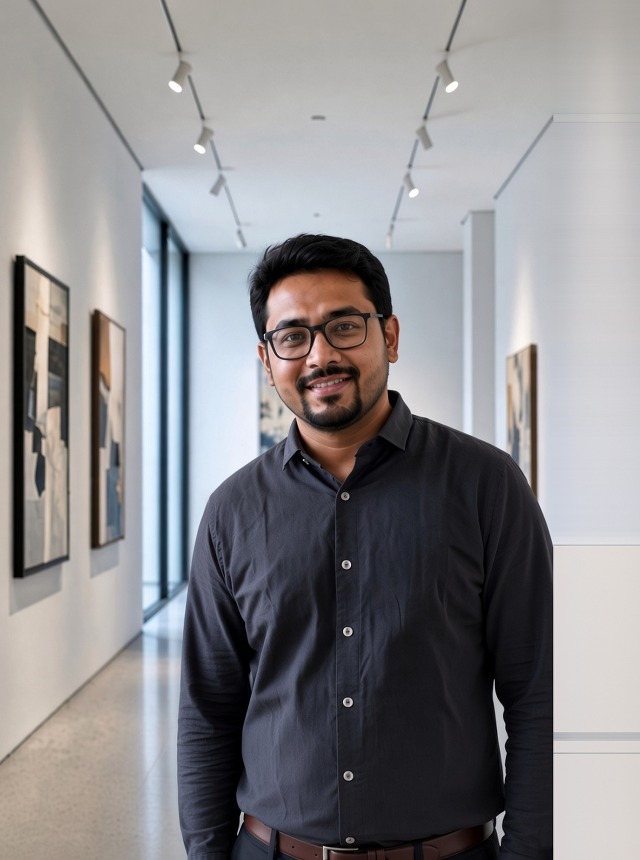
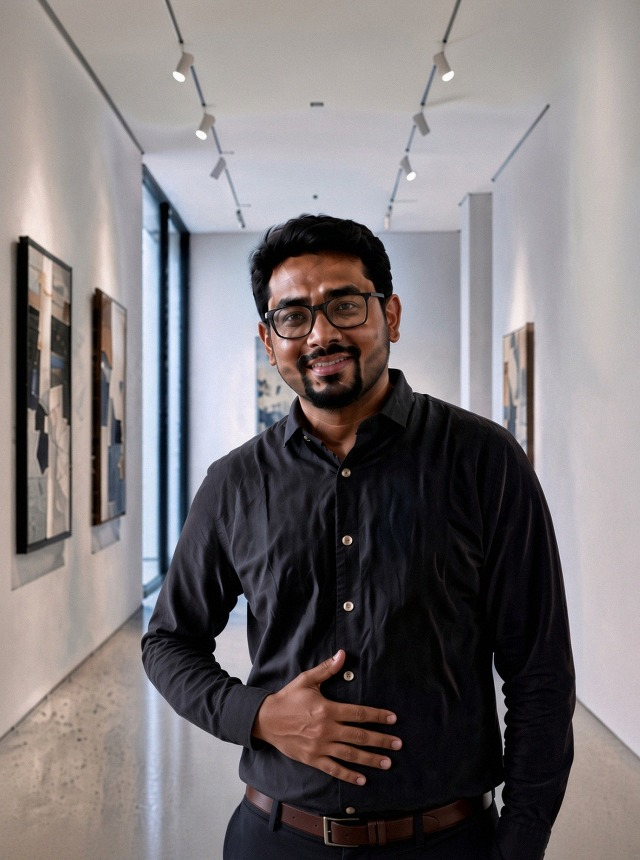
fix(rohan): desk139 complete midriff hand DP (?v=13)
Keep waist-up zoom and face center from desk138; pose the right hand
fully on the midriff so fingers/wrist are not chopped by the frame.
Bump cache to desk139 / Rohan ?v=13 for site + Flutter assets.

diff --git a/js/app.js b/js/app.js
@@ -813,7 +813,7 @@ const MENTORS = [
   { name: "Vikram Singh", role: "Price action coach", tag: "Swing trading", img: "https://images.unsplash.com/photo-1506794778202-cad84cf45f1d?auto=format&fit=crop&w=640&h=860&q=80" },
   { name: "Ananya Rao", role: "Long-term investor", tag: "Portfolio", img: "https://images.unsplash.com/photo-1573496359142-b8d87734a5a2?auto=format&fit=crop&w=640&h=860&q=80" },
   { name: "Kabir Joshi", role: "Index options", tag: "Bank Nifty", img: "/img/instructors/kabir-joshi.jpg?v=9" },
-  { name: "Rohan Desai", role: "Fund researcher", tag: "Mutual funds", img: "/img/instructors/rohan-desai.jpg?v=12" },
+  { name: "Rohan Desai", role: "Fund researcher", tag: "Mutual funds", img: "/img/instructors/rohan-desai.jpg?v=13" },
   { name: "Priya Nair", role: "Asset allocation", tag: "SIP lab", img: "https://images.unsplash.com/photo-1580489944761-15a19d654956?auto=format&fit=crop&w=640&h=860&q=80" },
   { name: "Meera Iyer", role: "Options coach", tag: "Defined risk", img: "https://images.unsplash.com/photo-1438761681033-6461ffad8d80?auto=format&fit=crop&w=640&h=860&q=80" }
 ];
@@ -4924,6 +4924,7 @@ function traderIcon(kind) {
 /* cache-bust desk136: Rohan Desai DP widen framing (crop-only from desk133 flutter) /img/instructors/rohan-desai.jpg?v=9 */
 /* cache-bust desk138: Rohan Desai DP zoom-out extend gallery half-body /img/instructors/rohan-desai.jpg?v=11 */
 /* cache-bust desk138b: center face for circle (same zoom, right gallery extend) /img/instructors/rohan-desai.jpg?v=12 */
+/* cache-bust desk139: complete right hand on midriff (same zoom/center) /img/instructors/rohan-desai.jpg?v=13 */
 function traderCardHTML(m, i, opts = {}) {
   const title = String(m.role || m.tag || "Mentor").trim();
   const cloneAttrs = opts.clone ? ' tabindex="-1" aria-hidden="true"' : "";

diff --git a/account.html b/account.html
@@ -17,7 +17,7 @@
   <div id="site-header"></div>
   <main id="accountRoot" class="ld-page"></main>
   <div id="site-footer"></div>
-  <script src="/js/app.js?v=desk138" defer></script>
+  <script src="/js/app.js?v=desk139" defer></script>
   <script src="/js/lms.js?v=cert2" defer></script>
 </body>
 </html>

diff --git a/learning.html b/learning.html
@@ -17,7 +17,7 @@
   <div id="site-header"></div>
   <main id="myLearning" class="ld-page"></main>
   <div id="site-footer"></div>
-  <script src="/js/app.js?v=desk138" defer></script>
+  <script src="/js/app.js?v=desk139" defer></script>
   <script src="/js/lms.js?v=cert2" defer></script>
 </body>
 </html>

diff --git a/course.html b/course.html
@@ -22,7 +22,7 @@
     </div>
   </main>
   <div id="site-footer"></div>
-  <script src="/js/app.js?v=desk138" defer></script>
+  <script src="/js/app.js?v=desk139" defer></script>
   <script src="/js/lms.js?v=cert2" defer></script>
   <script src="/js/drm.js?v=desk29" defer></script>
 </body>

diff --git a/contact.html b/contact.html
@@ -48,7 +48,7 @@
   </main>
   <div id="site-footer"></div>
   <script src="/js/help-faqs.js?v=faq1" defer></script>
-  <script src="/js/app.js?v=desk138" defer></script>
+  <script src="/js/app.js?v=desk139" defer></script>
   <script src="/js/lms.js" defer></script>
 </body>
 </html>

diff --git a/certificate.html b/certificate.html
@@ -19,7 +19,7 @@
     <div id="certRoot"></div>
   </main>
   <div id="site-footer"></div>
-  <script src="/js/app.js?v=desk138" defer></script>
+  <script src="/js/app.js?v=desk139" defer></script>
   <script src="/js/lms.js?v=cert2" defer></script>
 </body>
 </html>

diff --git a/control.html b/control.html
@@ -253,7 +253,7 @@
         loading = true;
         busy(true);
         var files = [
-          "/js/app.js?v=desk138",
+          "/js/app.js?v=desk139",
           "/js/lms.js",
           "/js/admin-core.js?v=desk8",
           "/js/admin.js?v=drm5",

diff --git a/index.html b/index.html
@@ -415,7 +415,7 @@
     </section>
   </main>
   <div id="site-footer"></div>
-  <script src="/js/app.js?v=desk138" defer></script>
+  <script src="/js/app.js?v=desk139" defer></script>
   <script src="/js/lms.js?v=cert2" defer></script>
 </body>
 </html>

diff --git a/live-room.html b/live-room.html
@@ -22,7 +22,7 @@
 </head>
 <body class="live-room-page">
   <div id="liveRoom"></div>
-  <script src="/js/app.js?v=desk138" defer></script>
+  <script src="/js/app.js?v=desk139" defer></script>
   <script src="/js/lms.js" defer></script>
 </body>
 </html>

diff --git a/nifty-options.html b/nifty-options.html
@@ -44,7 +44,7 @@
     </section>
   </main>
   <div id="site-footer"></div>
-  <script src="/js/app.js?v=desk138" defer></script>
+  <script src="/js/app.js?v=desk139" defer></script>
   <script src="/js/lms.js?v=cert2" defer></script>
 </body>
 </html>

diff --git a/option-trading-course.html b/option-trading-course.html
@@ -44,7 +44,7 @@
     </section>
   </main>
   <div id="site-footer"></div>
-  <script src="/js/app.js?v=desk138" defer></script>
+  <script src="/js/app.js?v=desk139" defer></script>
   <script src="/js/lms.js?v=cert2" defer></script>
 </body>
 </html>

diff --git a/share-market-course-in-hindi.html b/share-market-course-in-hindi.html
@@ -42,7 +42,7 @@
     </section>
   </main>
   <div id="site-footer"></div>
-  <script src="/js/app.js?v=desk138" defer></script>
+  <script src="/js/app.js?v=desk139" defer></script>
   <script src="/js/lms.js?v=cert2" defer></script>
 </body>
 </html>
